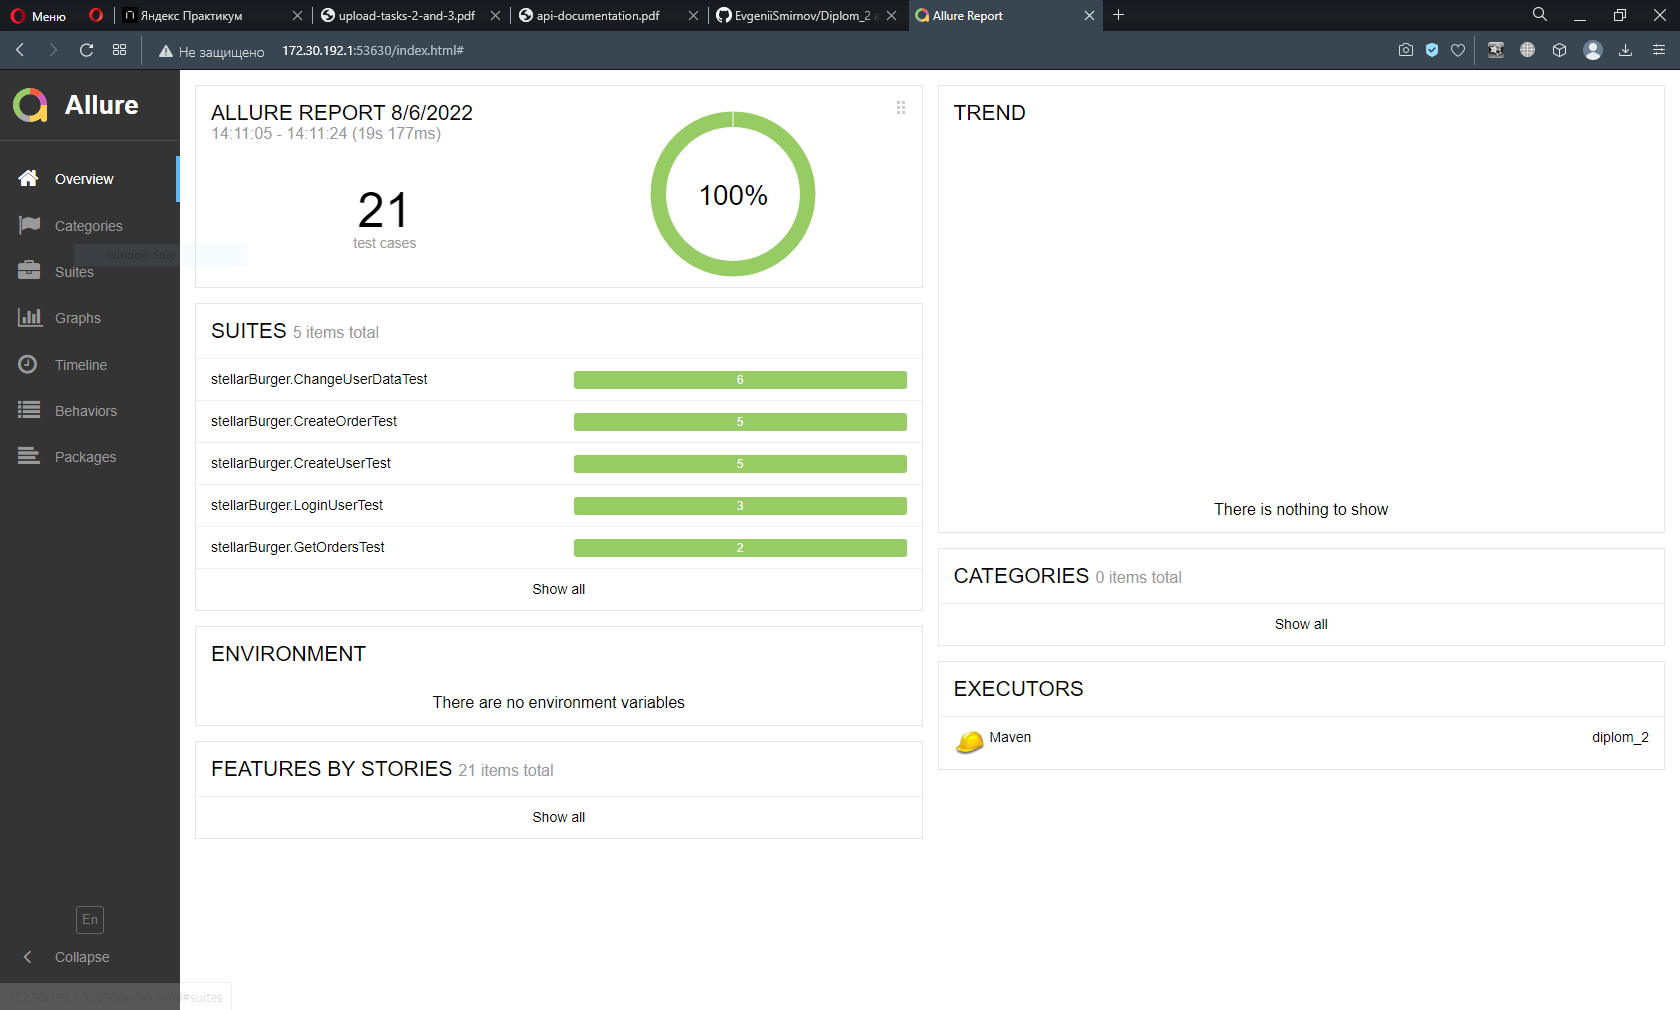
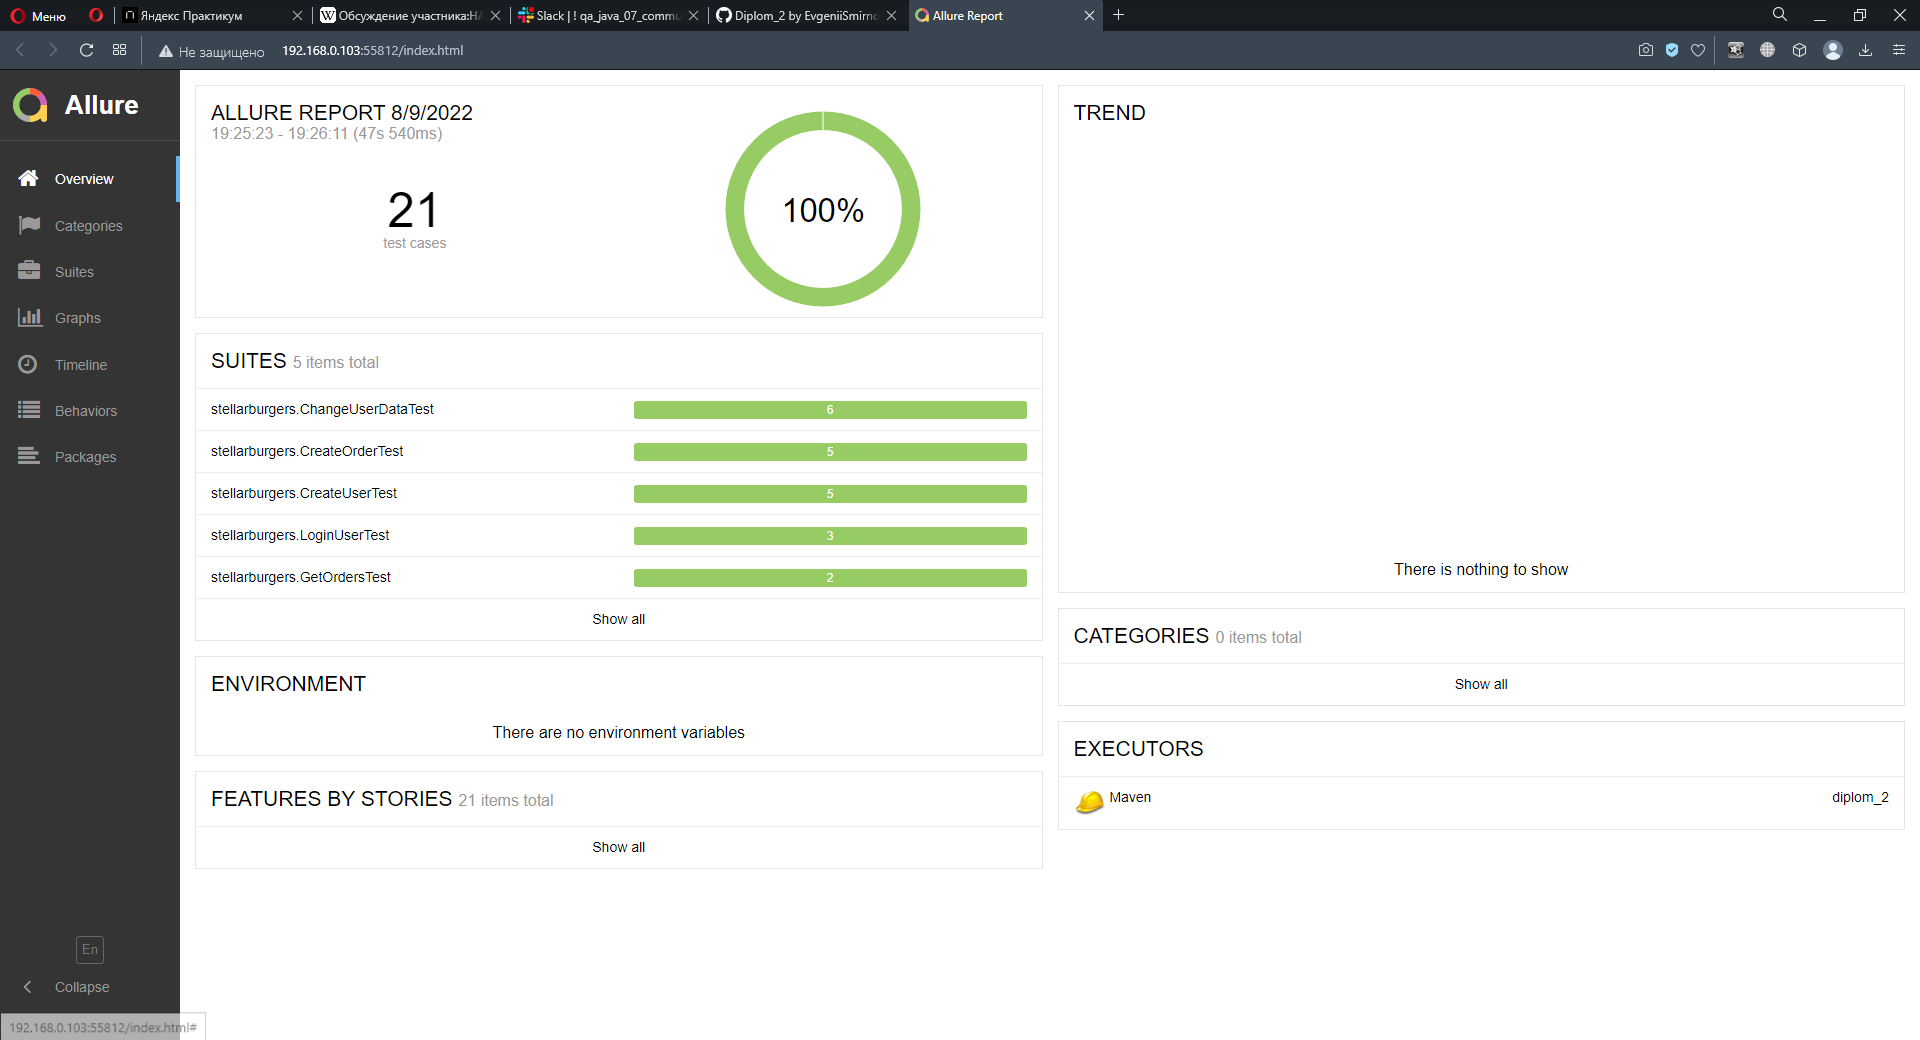
fix

diff --git a/src/test/java/stellarburgers/CreateOrderTest.java b/src/test/java/stellarburgers/CreateOrderTest.java
@@ -1,15 +1,16 @@
-package stellarBurger;
+package stellarburgers;
 
 import io.qameta.allure.Description;
 import io.restassured.response.Response;
 import org.junit.After;
 import org.junit.Before;
 import org.junit.Test;
-import stellarBurger.igredients.Ingredients;
-import stellarBurger.igredients.IngredientsSteps;
-import stellarBurger.user.UserApi;
-import stellarBurger.user.UserInfo;
-import stellarBurger.user.UserSteps;
+import stellarburgers.client.OrdersApi;
+import stellarburgers.model.Ingredients;
+import stellarburgers.steps.IngredientsSteps;
+import stellarburgers.client.UserApi;
+import stellarburgers.model.UserInfo;
+import stellarburgers.steps.UserSteps;
 
 import java.util.ArrayList;
 import java.util.List;

diff --git a/src/test/java/stellarburgers/GetOrdersTest.java b/src/test/java/stellarburgers/GetOrdersTest.java
@@ -1,12 +1,13 @@
-package stellarBurger;
+package stellarburgers;
 
 import io.qameta.allure.Description;
 import io.restassured.response.Response;
 import org.junit.After;
 import org.junit.Test;
-import stellarBurger.user.UserApi;
-import stellarBurger.user.UserInfo;
-import stellarBurger.user.UserSteps;
+import stellarburgers.client.OrdersApi;
+import stellarburgers.client.UserApi;
+import stellarburgers.model.UserInfo;
+import stellarburgers.steps.UserSteps;
 
 import static org.apache.http.HttpStatus.SC_OK;
 import static org.apache.http.HttpStatus.SC_UNAUTHORIZED;

diff --git a/src/test/java/stellarburgers/ChangeUserDataTest.java b/src/test/java/stellarburgers/ChangeUserDataTest.java
@@ -1,13 +1,13 @@
-package stellarBurger;
+package stellarburgers;
 
 import io.qameta.allure.Description;
 import io.restassured.response.Response;
 import org.junit.After;
 import org.junit.Before;
 import org.junit.Test;
-import stellarBurger.user.UserApi;
-import stellarBurger.user.UserInfo;
-import stellarBurger.user.UserSteps;
+import stellarburgers.client.UserApi;
+import stellarburgers.model.UserInfo;
+import stellarburgers.steps.UserSteps;
 
 import static org.apache.http.HttpStatus.SC_OK;
 import static org.apache.http.HttpStatus.SC_UNAUTHORIZED;

diff --git a/src/test/java/stellarburgers/LoginUserTest.java b/src/test/java/stellarburgers/LoginUserTest.java
@@ -1,13 +1,13 @@
-package stellarBurger;
+package stellarburgers;
 
 import io.qameta.allure.Description;
 import io.restassured.response.Response;
 import org.junit.After;
 import org.junit.Before;
 import org.junit.Test;
-import stellarBurger.user.UserApi;
-import stellarBurger.user.UserInfo;
-import stellarBurger.user.UserSteps;
+import stellarburgers.client.UserApi;
+import stellarburgers.model.UserInfo;
+import stellarburgers.steps.UserSteps;
 
 import static org.apache.http.HttpStatus.SC_OK;
 import static org.apache.http.HttpStatus.SC_UNAUTHORIZED;

diff --git a/src/test/java/stellarburgers/CreateUserTest.java b/src/test/java/stellarburgers/CreateUserTest.java
@@ -1,12 +1,12 @@
-package stellarBurger;
+package stellarburgers;
 
 import io.qameta.allure.Description;
 import io.restassured.response.Response;
 import org.junit.After;
 import org.junit.Test;
-import stellarBurger.user.UserApi;
-import stellarBurger.user.UserInfo;
-import stellarBurger.user.UserSteps;
+import stellarburgers.client.UserApi;
+import stellarburgers.model.UserInfo;
+import stellarburgers.steps.UserSteps;
 
 import static org.apache.http.HttpStatus.SC_FORBIDDEN;
 import static org.apache.http.HttpStatus.SC_OK;

diff --git a/src/main/java/stellarburgers/client/OrdersApi.java b/src/main/java/stellarburgers/client/OrdersApi.java
@@ -1,8 +1,9 @@
-package stellarBurger;
+package stellarburgers.client;
 
 import io.qameta.allure.Step;
 import io.restassured.response.Response;
-import stellarBurger.igredients.Ingredients;
+import stellarburgers.client.BaseSpecification;
+import stellarburgers.model.Ingredients;
 
 import static io.restassured.RestAssured.given;
 

diff --git a/src/main/java/stellarburgers/client/UserApi.java b/src/main/java/stellarburgers/client/UserApi.java
@@ -1,8 +1,9 @@
-package stellarBurger.user;
+package stellarburgers.client;
 
 import io.qameta.allure.Step;
 import io.restassured.response.Response;
-import stellarBurger.BaseSpecification;
+import stellarburgers.client.BaseSpecification;
+import stellarburgers.model.UserInfo;
 
 import static io.restassured.RestAssured.given;
 

diff --git a/src/main/java/stellarburgers/client/IngredientsApi.java b/src/main/java/stellarburgers/client/IngredientsApi.java
@@ -1,8 +1,8 @@
-package stellarBurger.igredients;
+package stellarburgers.client;
 
 import io.qameta.allure.Step;
 import io.restassured.response.Response;
-import stellarBurger.BaseSpecification;
+import stellarburgers.client.BaseSpecification;
 
 import static io.restassured.RestAssured.given;
 

diff --git a/src/main/java/stellarburgers/steps/UserSteps.java b/src/main/java/stellarburgers/steps/UserSteps.java
@@ -1,8 +1,9 @@
-package stellarBurger.user;
+package stellarburgers.steps;
 
 import io.qameta.allure.Step;
 import io.restassured.response.Response;
 import org.apache.commons.lang3.RandomStringUtils;
+import stellarburgers.model.UserInfo;
 
 public class UserSteps {
 

diff --git a/src/main/java/stellarburgers/steps/IngredientsSteps.java b/src/main/java/stellarburgers/steps/IngredientsSteps.java
@@ -1,7 +1,8 @@
-package stellarBurger.igredients;
+package stellarburgers.steps;
 
 import io.qameta.allure.Step;
 import org.apache.commons.lang3.RandomUtils;
+import stellarburgers.client.IngredientsApi;
 
 import java.util.ArrayList;
 import java.util.Arrays;

diff --git a/src/main/java/stellarburgers/client/BaseSpecification.java b/src/main/java/stellarburgers/client/BaseSpecification.java
@@ -1,4 +1,4 @@
-package stellarBurger;
+package stellarburgers.client;
 
 import io.restassured.builder.RequestSpecBuilder;
 import io.restassured.filter.log.LogDetail;

diff --git a/src/main/java/stellarburgers/model/Ingredients.java b/src/main/java/stellarburgers/model/Ingredients.java
@@ -1,4 +1,4 @@
-package stellarBurger.igredients;
+package stellarburgers.model;
 
 import java.util.List;
 
